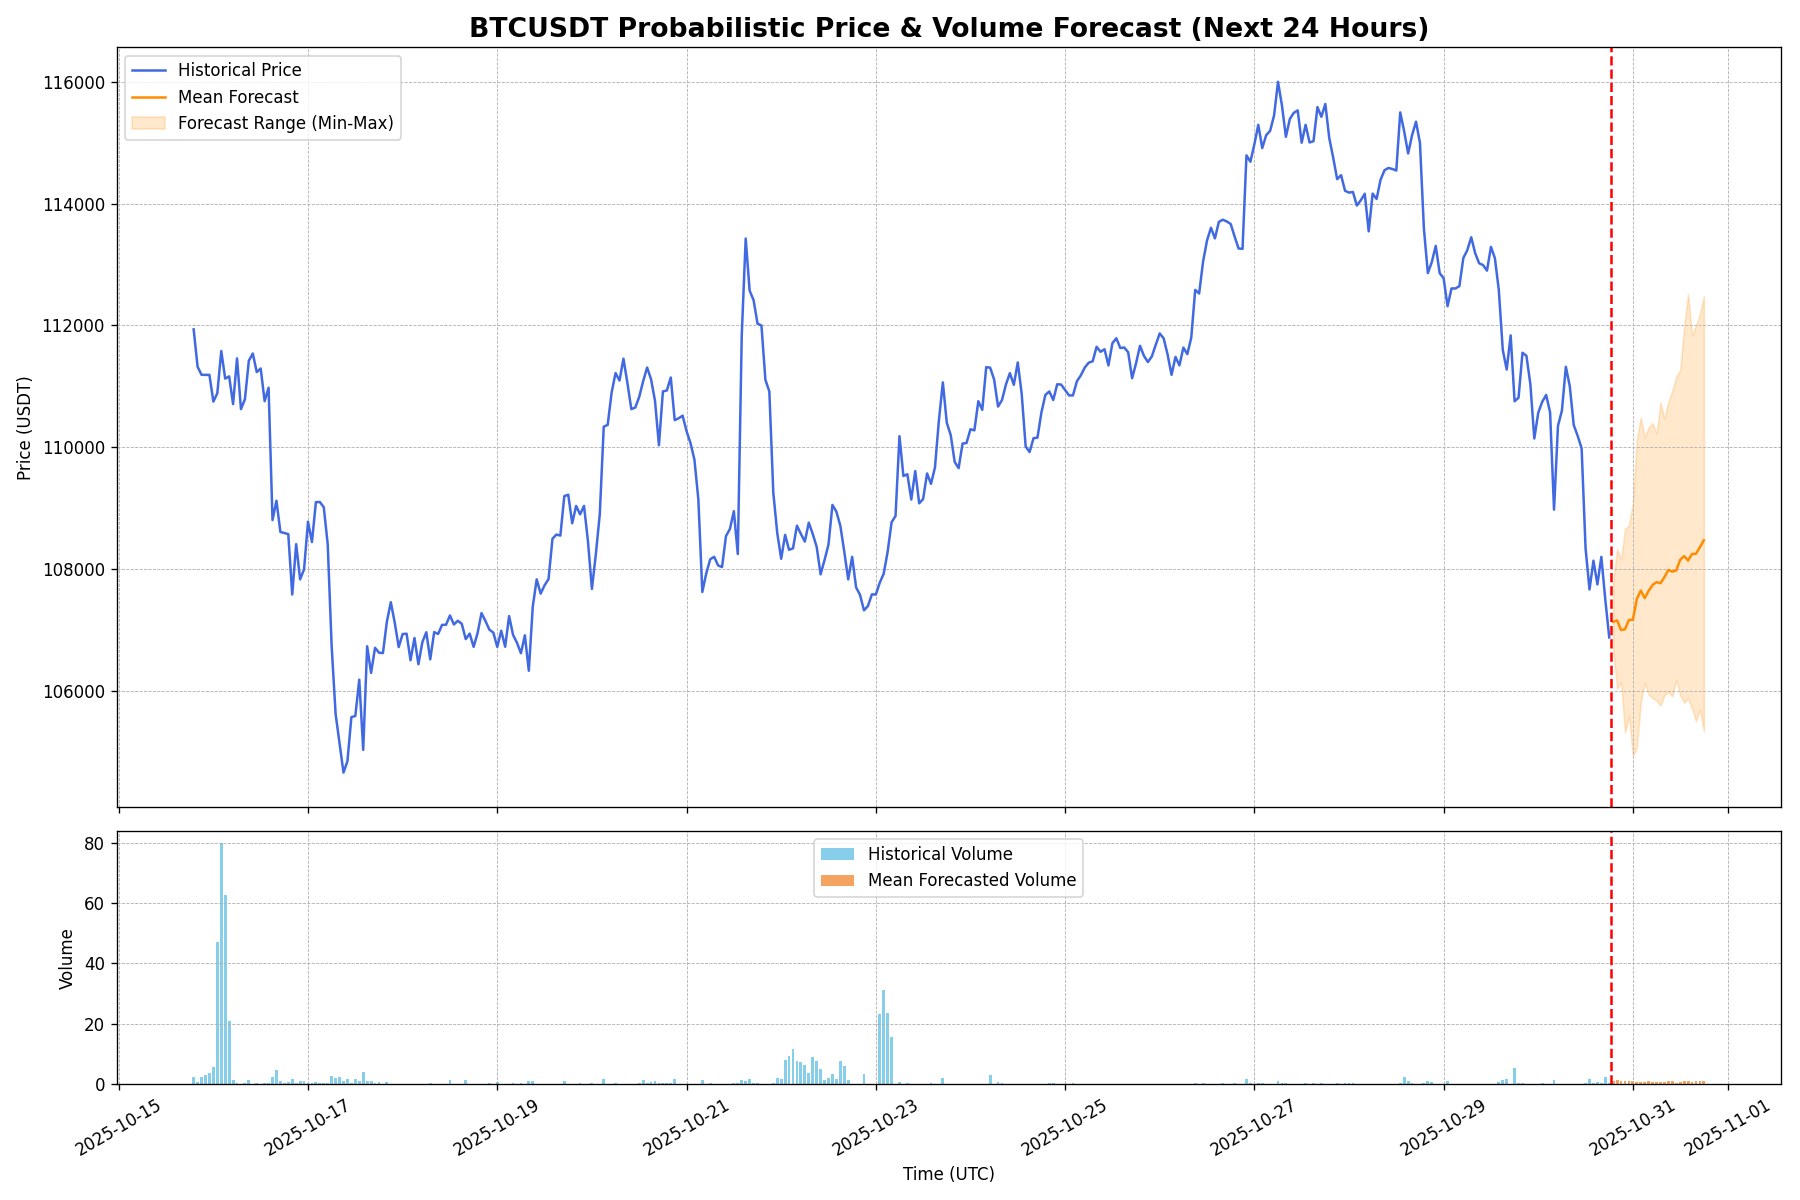
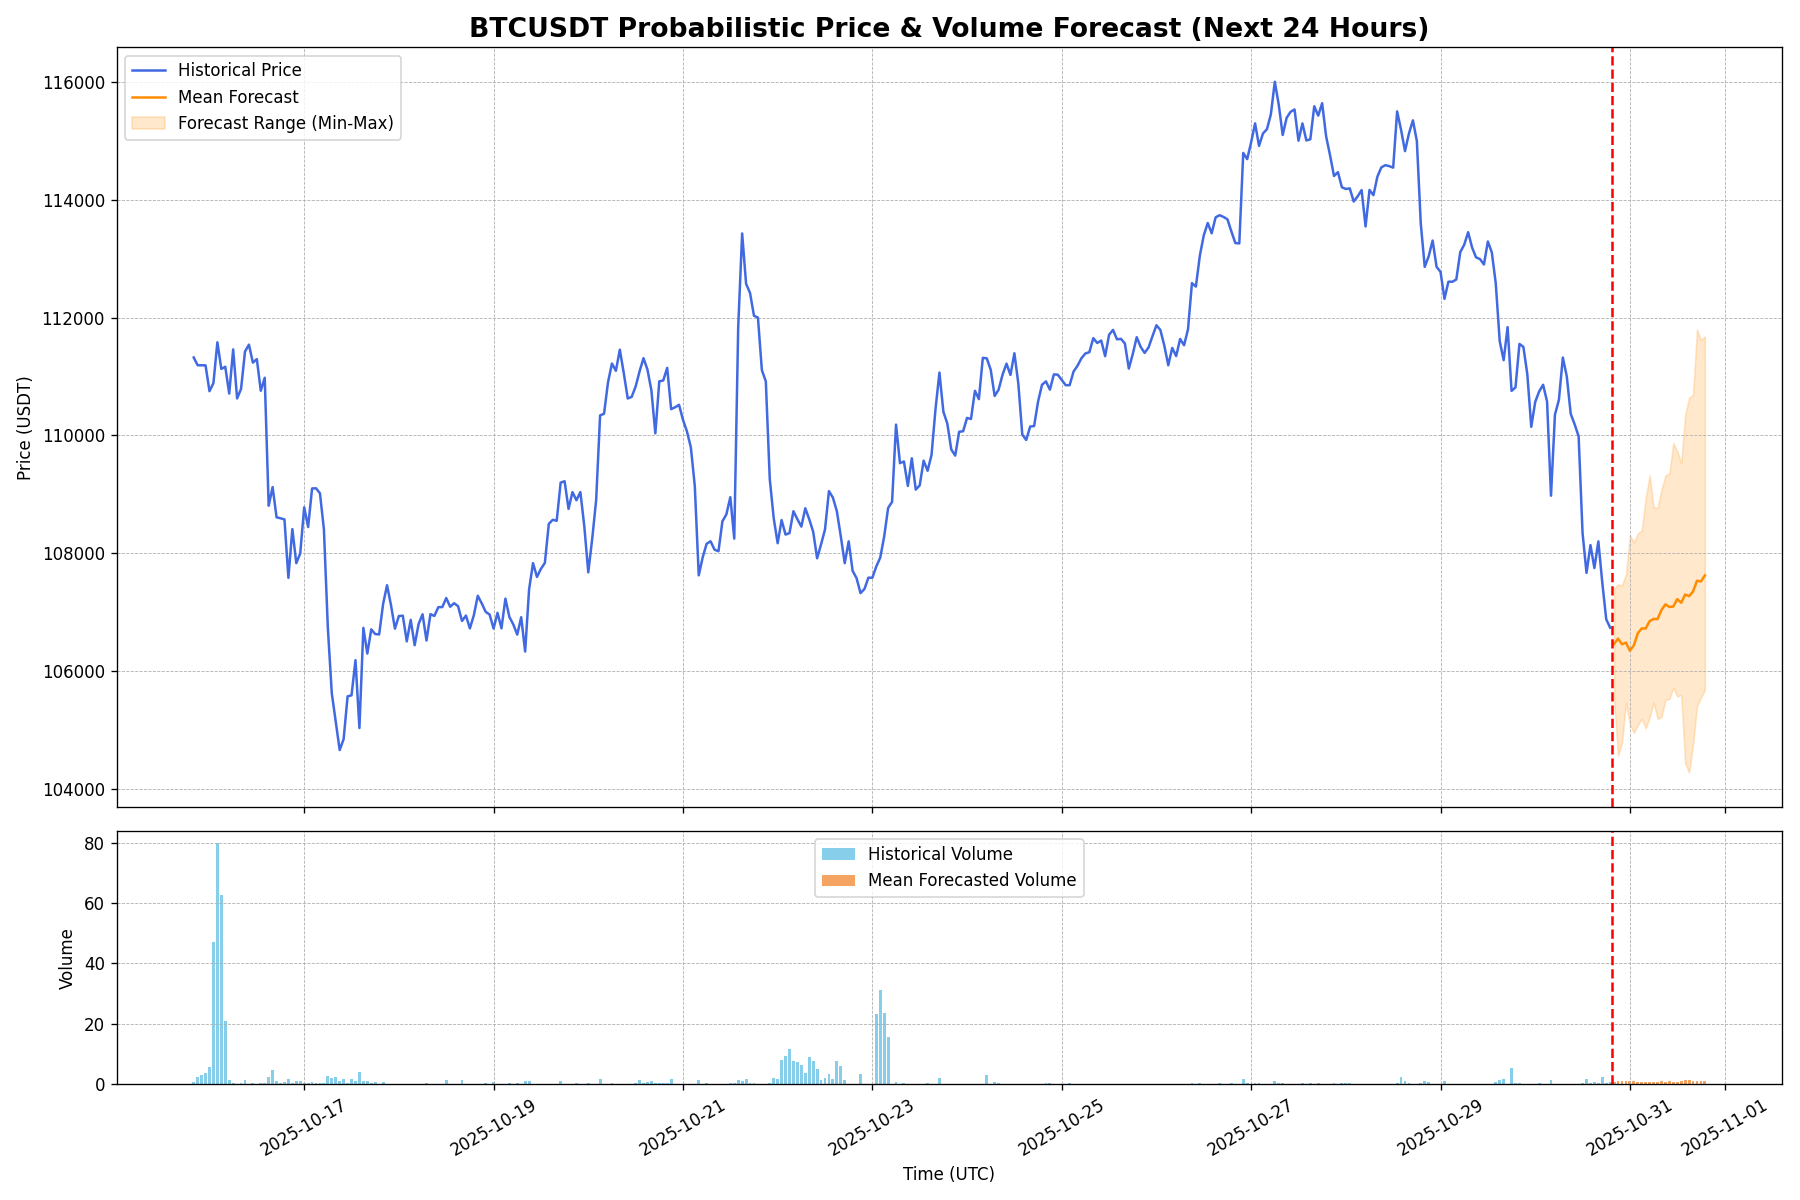
Auto-update forecast for 2025-10-30 20:07 UTC

diff --git a/index.html b/index.html
@@ -22,14 +22,14 @@
         <section id="live-dashboard">
             <h2>Live BTC/USDT Forecast Dashboard</h2>
             <div class="metadata">
-                <span>Last Updated (UTC): <strong id="update-time">2025-10-30 19:14:19</strong></span>
+                <span>Last Updated (UTC): <strong id="update-time">2025-10-30 20:07:23</strong></span>
                 <span>Data Source: Binance | Interval: 1-Hour</span>
             </div>
 
             <div class="metrics-container">
                 <div class="metric-card">
                     <h3>Upside Probability (Next 24h)</h3>
-                    <p class="metric-value" id="upside-prob">80.0%</p>
+                    <p class="metric-value" id="upside-prob">66.7%</p>
                     <div class="metric-desc">The model's confidence that the price in 24 hours will be higher than the last known price.</div>
                 </div>
                 <div class="metric-card">
